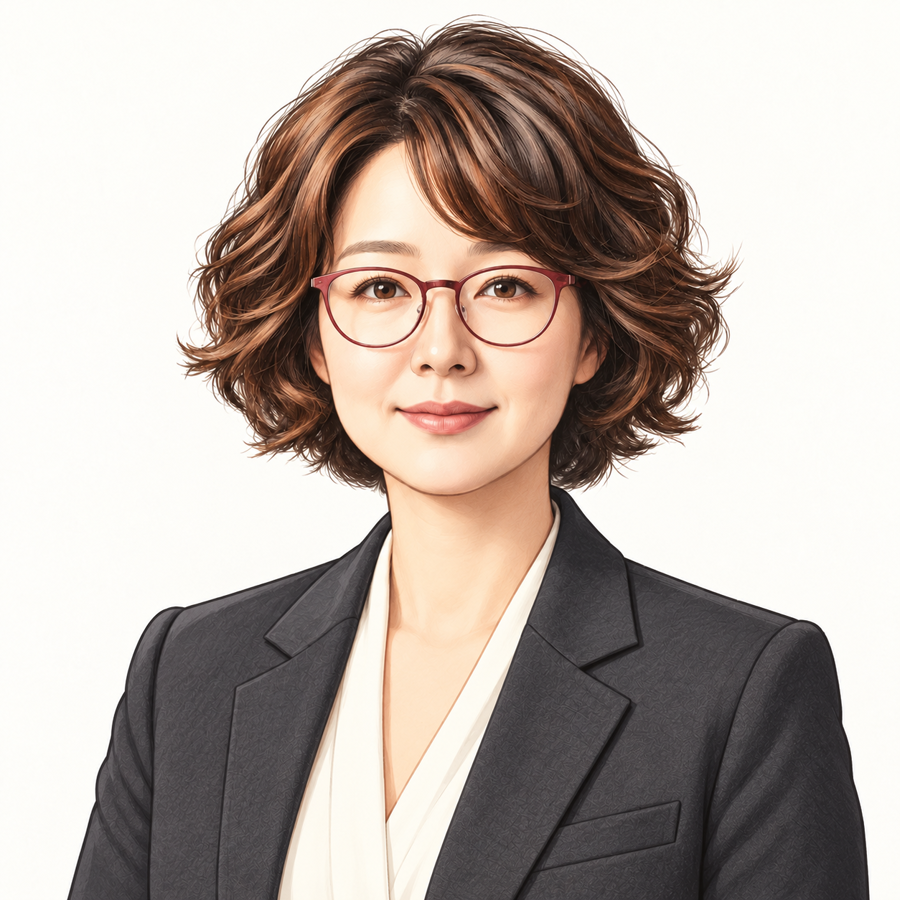
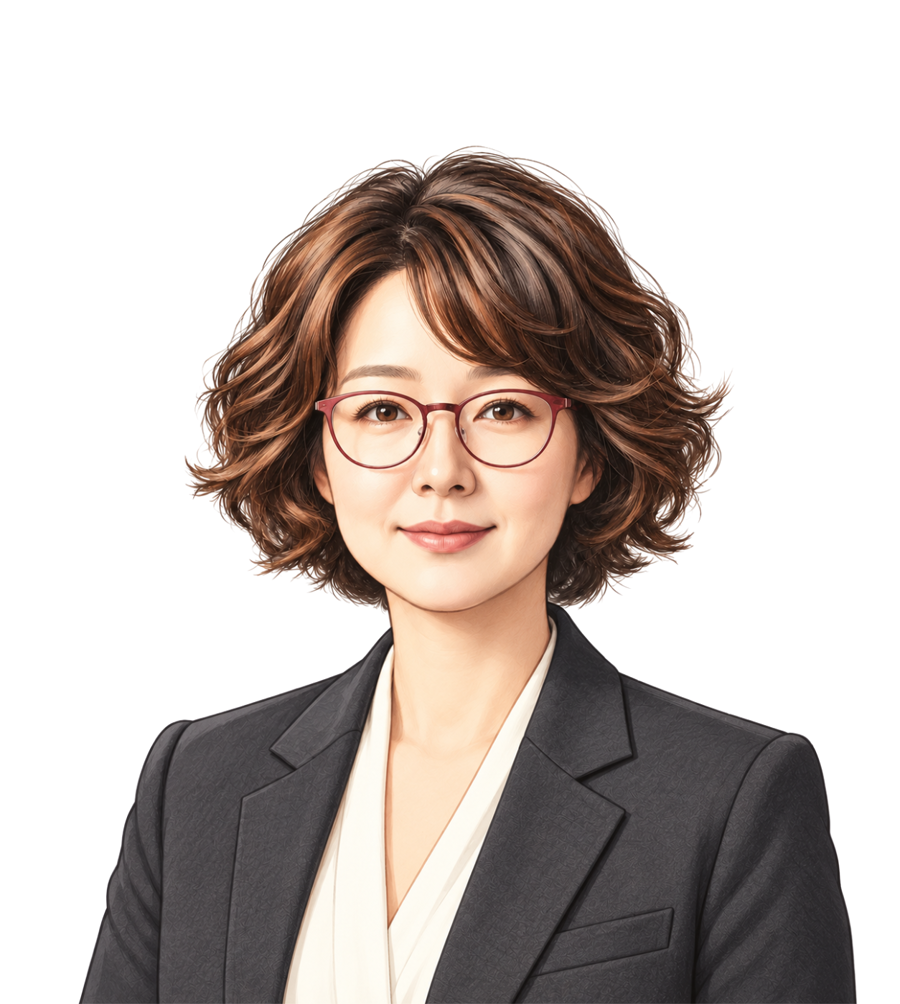
Update profile photo (portrait) and image ratio

diff --git a/index.html b/index.html
@@ -105,7 +105,7 @@ h2.tt{margin:8px 0 12px;font-size:clamp(26px,4.4vw,44px);line-height:1.3;font-we
 
 /* ---------- 강사 ---------- */
 .inst-grid{display:grid;grid-template-columns:repeat(auto-fit,minmax(min(100%,340px),1fr));gap:clamp(24px,5vw,64px);align-items:center}
-.inst-grid>img{width:100%;max-width:520px;justify-self:center;aspect-ratio:1;object-fit:cover;border-radius:24px;background:#fff;border:1px solid #E1E5EF}
+.inst-grid>img{width:100%;max-width:520px;justify-self:center;aspect-ratio:1254/1400;object-fit:cover;border-radius:24px;background:#fff;border:1px solid #E1E5EF}
 .inst-info{display:flex;flex-direction:column;gap:16px;align-items:flex-start;min-width:0}
 .inst-info blockquote{margin:0;padding:20px 24px;background:#fff;border-radius:16px;border:1px solid #E1E5EF}
 .inst-info ul{margin:0;padding-left:22px;color:#2F3652}

diff --git a/main.html b/main.html
@@ -105,7 +105,7 @@ h2.tt{margin:8px 0 12px;font-size:clamp(26px,4.4vw,44px);line-height:1.3;font-we
 
 /* ---------- 강사 ---------- */
 .inst-grid{display:grid;grid-template-columns:repeat(auto-fit,minmax(min(100%,340px),1fr));gap:clamp(24px,5vw,64px);align-items:center}
-.inst-grid>img{width:100%;max-width:520px;justify-self:center;aspect-ratio:1;object-fit:cover;border-radius:24px;background:#fff;border:1px solid #E1E5EF}
+.inst-grid>img{width:100%;max-width:520px;justify-self:center;aspect-ratio:1254/1400;object-fit:cover;border-radius:24px;background:#fff;border:1px solid #E1E5EF}
 .inst-info{display:flex;flex-direction:column;gap:16px;align-items:flex-start;min-width:0}
 .inst-info blockquote{margin:0;padding:20px 24px;background:#fff;border-radius:16px;border:1px solid #E1E5EF}
 .inst-info ul{margin:0;padding-left:22px;color:#2F3652}
